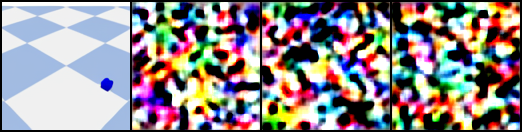
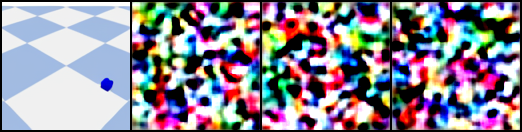
added new model and training

diff --git a/src/models/diffusion_trans_pnn.py b/src/models/diffusion_trans_pnn.py
@@ -13,6 +13,23 @@ from .embedders import TimestepEmbedder, ActionEmbedder
 from timm.models.vision_transformer import Mlp
 
 
+class MLPAttentionPooling(nn.Module):
+    def __init__(self, hidden_dim):
+        super(MLPAttentionPooling, self).__init__()
+        self.mlp = nn.Sequential(
+            nn.Linear(hidden_dim, hidden_dim // 2),
+            nn.ReLU(),
+            nn.Linear(hidden_dim // 2, 1),
+        )
+
+    def forward(self, x):
+        # x: (batch_size, seq_len, hidden_dim)
+        scores = self.mlp(x)  # Shape: (batch_size, seq_len, 1)
+        weights = torch.softmax(scores, dim=1)  # Normalize across sequence dimension
+        pooled_output = torch.sum(weights * x, dim=1)  # Weighted sum across tokens
+        return pooled_output
+
+
 class FinalLayer(nn.Module):
     """
     The final layer of DiT.
@@ -61,7 +78,7 @@ class DiTActionSeqAct(nn.Module):
             self.hidden_size,
             bias=True,
         )
-        self.a_embedder = ActionEmbedder(self.hidden_size, self.action_dim)
+        self.a_embedder = ActionEmbedder(self.hidden_size, 3)
         self.t_embedder = TimestepEmbedder(self.hidden_size)
         num_patches = self.x_embedder.num_patches
         self.pos_embed = nn.Parameter(
@@ -334,6 +351,7 @@ class DiTActionFramesSeqJoint6(DiTActionSeqAct):
         self.pos_embed_act.data.copy_(
             torch.from_numpy(pos_embed_act).float().unsqueeze(0)
         )
+        self.t_s_embedder = TimestepEmbedder(self.hidden_size)
         # self.img_c_embedder = nn.Linear(256, self.hidden_size)
         self.final_layer_act = FinalLayer(
             self.hidden_size, self.seq_len, self.action_dim
@@ -348,7 +366,7 @@ class DiTActionFramesSeqJoint6(DiTActionSeqAct):
         nn.init.constant_(self.first_block.adaLN_modulation[-1].bias, 0)
         # self.downsample_layer = nn.Linear(160, 3)
         mlp_hidden_dim = 4 * 160
-        approx_gelu = lambda: nn.GELU(approximate="tanh")
+        approx_gelu = lambda: nn.Sigmoid()
         self.downsample_layer = Mlp(
             in_features=160,
             hidden_features=mlp_hidden_dim,
@@ -356,6 +374,11 @@ class DiTActionFramesSeqJoint6(DiTActionSeqAct):
             act_layer=approx_gelu,
             drop=0,
         )
+
+        # Initialize timestep embedding MLP:
+        nn.init.normal_(self.t_s_embedder.mlp[0].weight, std=0.02)
+        nn.init.normal_(self.t_s_embedder.mlp[2].weight, std=0.02)
+
         # Zero-out output layers:
         nn.init.constant_(self.final_layer_act.adaLN_modulation[-1].weight, 0)
         nn.init.constant_(self.final_layer_act.adaLN_modulation[-1].bias, 0)
@@ -404,6 +427,118 @@ class DiTActionFramesSeqJoint6(DiTActionSeqAct):
         x_act = self.downsample_layer(x_act)
         x = self.final_layer(x[:, :64, :], c)
         x = self.unpatchify(x)  # (N, out_channels, H, W)
+        x = rearrange(x, "(b f) c h w -> b f c h w", b=batch_sz)
+        return x, x_act
+
+
+class DiTActionFramesSeqJointCondition(DiTActionSeqAct):
+
+    def __init__(self, config):
+        super().__init__(config)
+        self.pos_embed_act = nn.Parameter(
+            torch.zeros(1, 1, self.hidden_size), requires_grad=False
+        )
+        self.time_embed = nn.Parameter(
+            torch.zeros(1, 1, self.hidden_size), requires_grad=False
+        )
+        self.t_s_embedder = TimestepEmbedder(self.hidden_size)
+
+        self.temp_embed = nn.Parameter(
+            torch.zeros(1, self.seq_len, self.hidden_size), requires_grad=False
+        )
+
+        temp_embed = get_1d_sincos_temp_embed(
+            self.temp_embed.shape[-1], self.temp_embed.shape[-2]
+        )
+        self.temp_embed.data.copy_(torch.from_numpy(temp_embed).float().unsqueeze(0))
+        self.v_embedder = ActionEmbedder(self.hidden_size * 4, 3)
+
+        pos_embed_act = get_1d_sincos_temp_embed(self.pos_embed_act.shape[-1], 1)
+        self.pos_embed_act.data.copy_(
+            torch.from_numpy(pos_embed_act).float().unsqueeze(0)
+        )
+
+        pos_embed_time = get_1d_sincos_temp_embed(self.time_embed.shape[-1], 1)
+        self.time_embed.data.copy_(
+            torch.from_numpy(pos_embed_time).float().unsqueeze(0)
+        )
+        # self.img_c_embedder = nn.Linear(256, self.hidden_size)
+        # self.final_layer_act = FinalLayer(
+        #     self.hidden_size, self.seq_len, self.action_dim
+        # )
+        mlp_hidden_dim = 4 * 160
+        approx_gelu = lambda: nn.Sigmoid()
+        self.downsample_layer = Mlp(
+            in_features=16,
+            hidden_features=mlp_hidden_dim,
+            out_features=3,
+            act_layer=approx_gelu,
+            drop=0,
+        )
+        self._att_pooling = MLPAttentionPooling(16)
+        # Zero-out output layers:
+        # nn.init.constant_(self.final_layer_act.adaLN_modulation[-1].weight, 0)
+        # nn.init.constant_(self.final_layer_act.adaLN_modulation[-1].bias, 0)
+        # nn.init.constant_(self.final_layer_act.linear.weight, 0)
+        # nn.init.constant_(self.final_layer_act.linear.bias, 0)
+        # nn.init.normal_(self.downsample_layer.weight, std=0.02)
+
+        nn.init.normal_(self.v_embedder.mlp[0].weight, std=0.02)
+        nn.init.normal_(self.v_embedder.mlp[2].weight, std=0.02)
+
+        # Initialize timestep embedding MLP:
+        nn.init.normal_(self.t_s_embedder.mlp[0].weight, std=0.02)
+        nn.init.normal_(self.t_s_embedder.mlp[2].weight, std=0.02)
+
+    def forward(self, x, t, a, init, mask_frame_num=None):
+        """
+        Forward pass of DiT which now also takes actions as input
+        x: (N, L, C, H, W) tensor of video inputs
+        t: (N,) tensor of diffusion timesteps
+        a: (N, C, 7) tensor of actions (TCP positions in (x, y, z, rpx, rpy, rpz))
+        """
+        batch_sz, l, ch, h, w = x.shape
+        pos = init[:, :3]
+        time = init[:, 3:7]
+        time = rearrange(time, "b d -> (b d)")
+        velocity = init[:, 7:]
+        x = rearrange(x, "b f c h w -> (b f) c h w")
+        x = self.x_embedder(x) + self.pos_embed
+        init_pos = self.a_embedder(pos)
+        time = self.t_s_embedder(time)
+        time = repeat(time, "b f -> b c f", c=1) + self.time_embed
+
+        init_pos = repeat(init_pos, "b f -> b c f", c=self.seq_len)
+        init_pos = rearrange(init_pos, "b (c l) f -> (b c) l f", c=self.seq_len)
+        init_pos = init_pos + self.pos_embed_act  # (N, D) Action embedding
+        x = torch.cat((x, init_pos, time), dim=1)
+        t = self.t_embedder(t)  # (N, D)
+        y_emb = self.v_embedder(velocity)
+        y_emb = rearrange(y_emb, "b (c f) -> (b c) f", c=self.seq_len)
+        timestep_spatial = repeat(t, "n d -> (n c) d", c=self.seq_len)
+        timestep_temp = repeat(t, "n d -> (n c) d", c=(self.pos_embed.shape[1] + 2))
+        # y_feat = img_c.flatten(start_dim=1)
+        # y_emb = self.img_c_embedder(y_feat)
+        for i in range(0, len(self.blocks), 2):
+            spatial_block, temp_block = self.blocks[i : i + 2]
+            c = timestep_spatial + y_emb
+            x = spatial_block(x, c)
+            x = rearrange(x, "(b f) t d -> (b t) f d", b=batch_sz)
+            # Add Time Embedding
+            if i == 0:
+                x = x + self.temp_embed[:, 0:l]
+            c = timestep_temp
+            x = temp_block(x, c)
+            x = rearrange(x, "(b t) f d -> (b f) t d", b=batch_sz)
+        c = timestep_spatial
+        x = self.final_layer(x, c)
+
+        x_act = self._att_pooling(x)
+        x_act = torch.einsum("nw->nw", x_act)
+        x_act = x_act.view((batch_sz, l, -1))
+        x_act = self.downsample_layer(x_act)
+        x = self.unpatchify(x[:, :64, :])  # (N, out_channels, H, W)
+
         x = rearrange(x, "(b f) c h w -> b f c h w", b=batch_sz)
         return x, x_act
 

diff --git a/src/trainer_dit_pnn_joint.py b/src/trainer_dit_pnn_joint.py
@@ -10,6 +10,7 @@ from src.dataset.data_set_set_pinn import DatasetObjectSeqTrj, DatasetObjectSeqT
 from src.models.diffusion_trans_pnn import (
     DiTActionFramesSeqJoint,
     DiTActionFramesSeqJoint6,
+    DiTActionFramesSeqJointCondition,
 )
 from src.models.difussion_utils.schedule import create_diffusion_seq_act
 from diffusers.models import AutoencoderKL
@@ -30,7 +31,9 @@ import copy
 
 def model_factory(model_config):
     model_classes = {
-        "DiTActionFramesSeqJoint": DiTActionFramesSeqJoint6,
+        "DiTActionFramesSeqJoint": DiTActionFramesSeqJoint,
+        "DiTActionFramesSeqJoint6": DiTActionFramesSeqJoint6,
+        "DiTActionFramesSeqJointCondition": DiTActionFramesSeqJointCondition,
     }
     type = model_config["type"]
     if type not in model_classes:
@@ -230,7 +233,7 @@ class DiTTrainerPNNJoint(TrainerBase):
 
             time.requires_grad = True
             initial_position.requires_grad = True
-            initial_velocity.requires_grad = True
+
             with torch.no_grad():
                 b, _, _, _, _ = frames_t.shape
                 x = rearrange(frames_t, "b f c h w -> (b f) c h w").contiguous()
